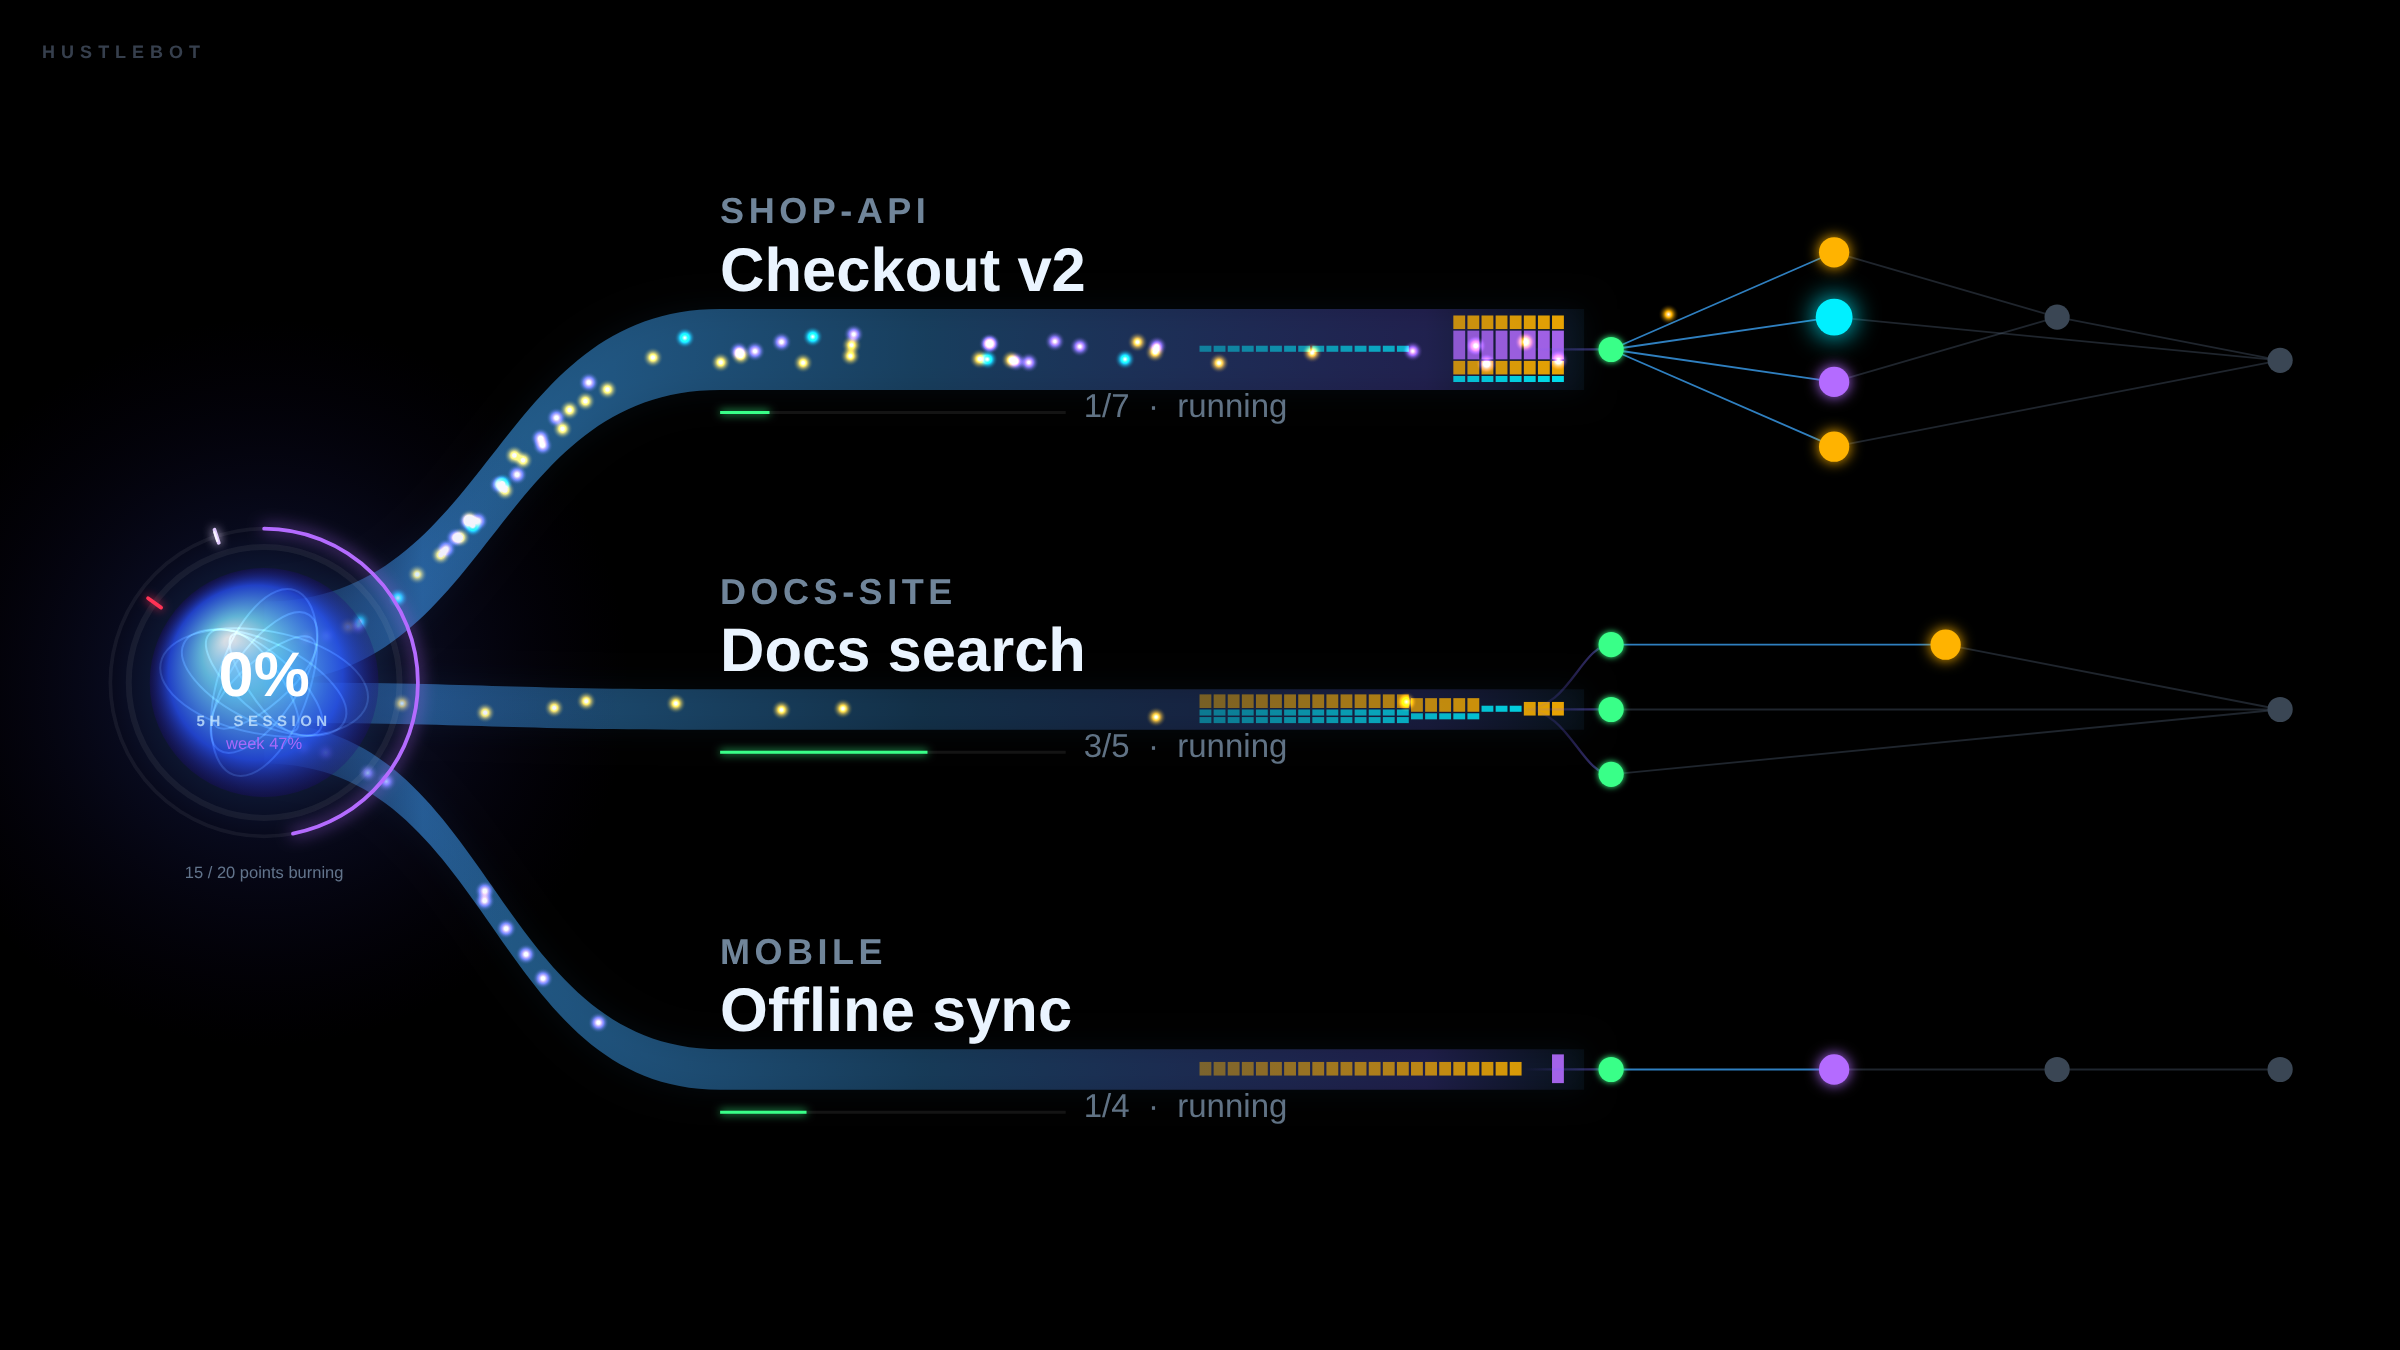
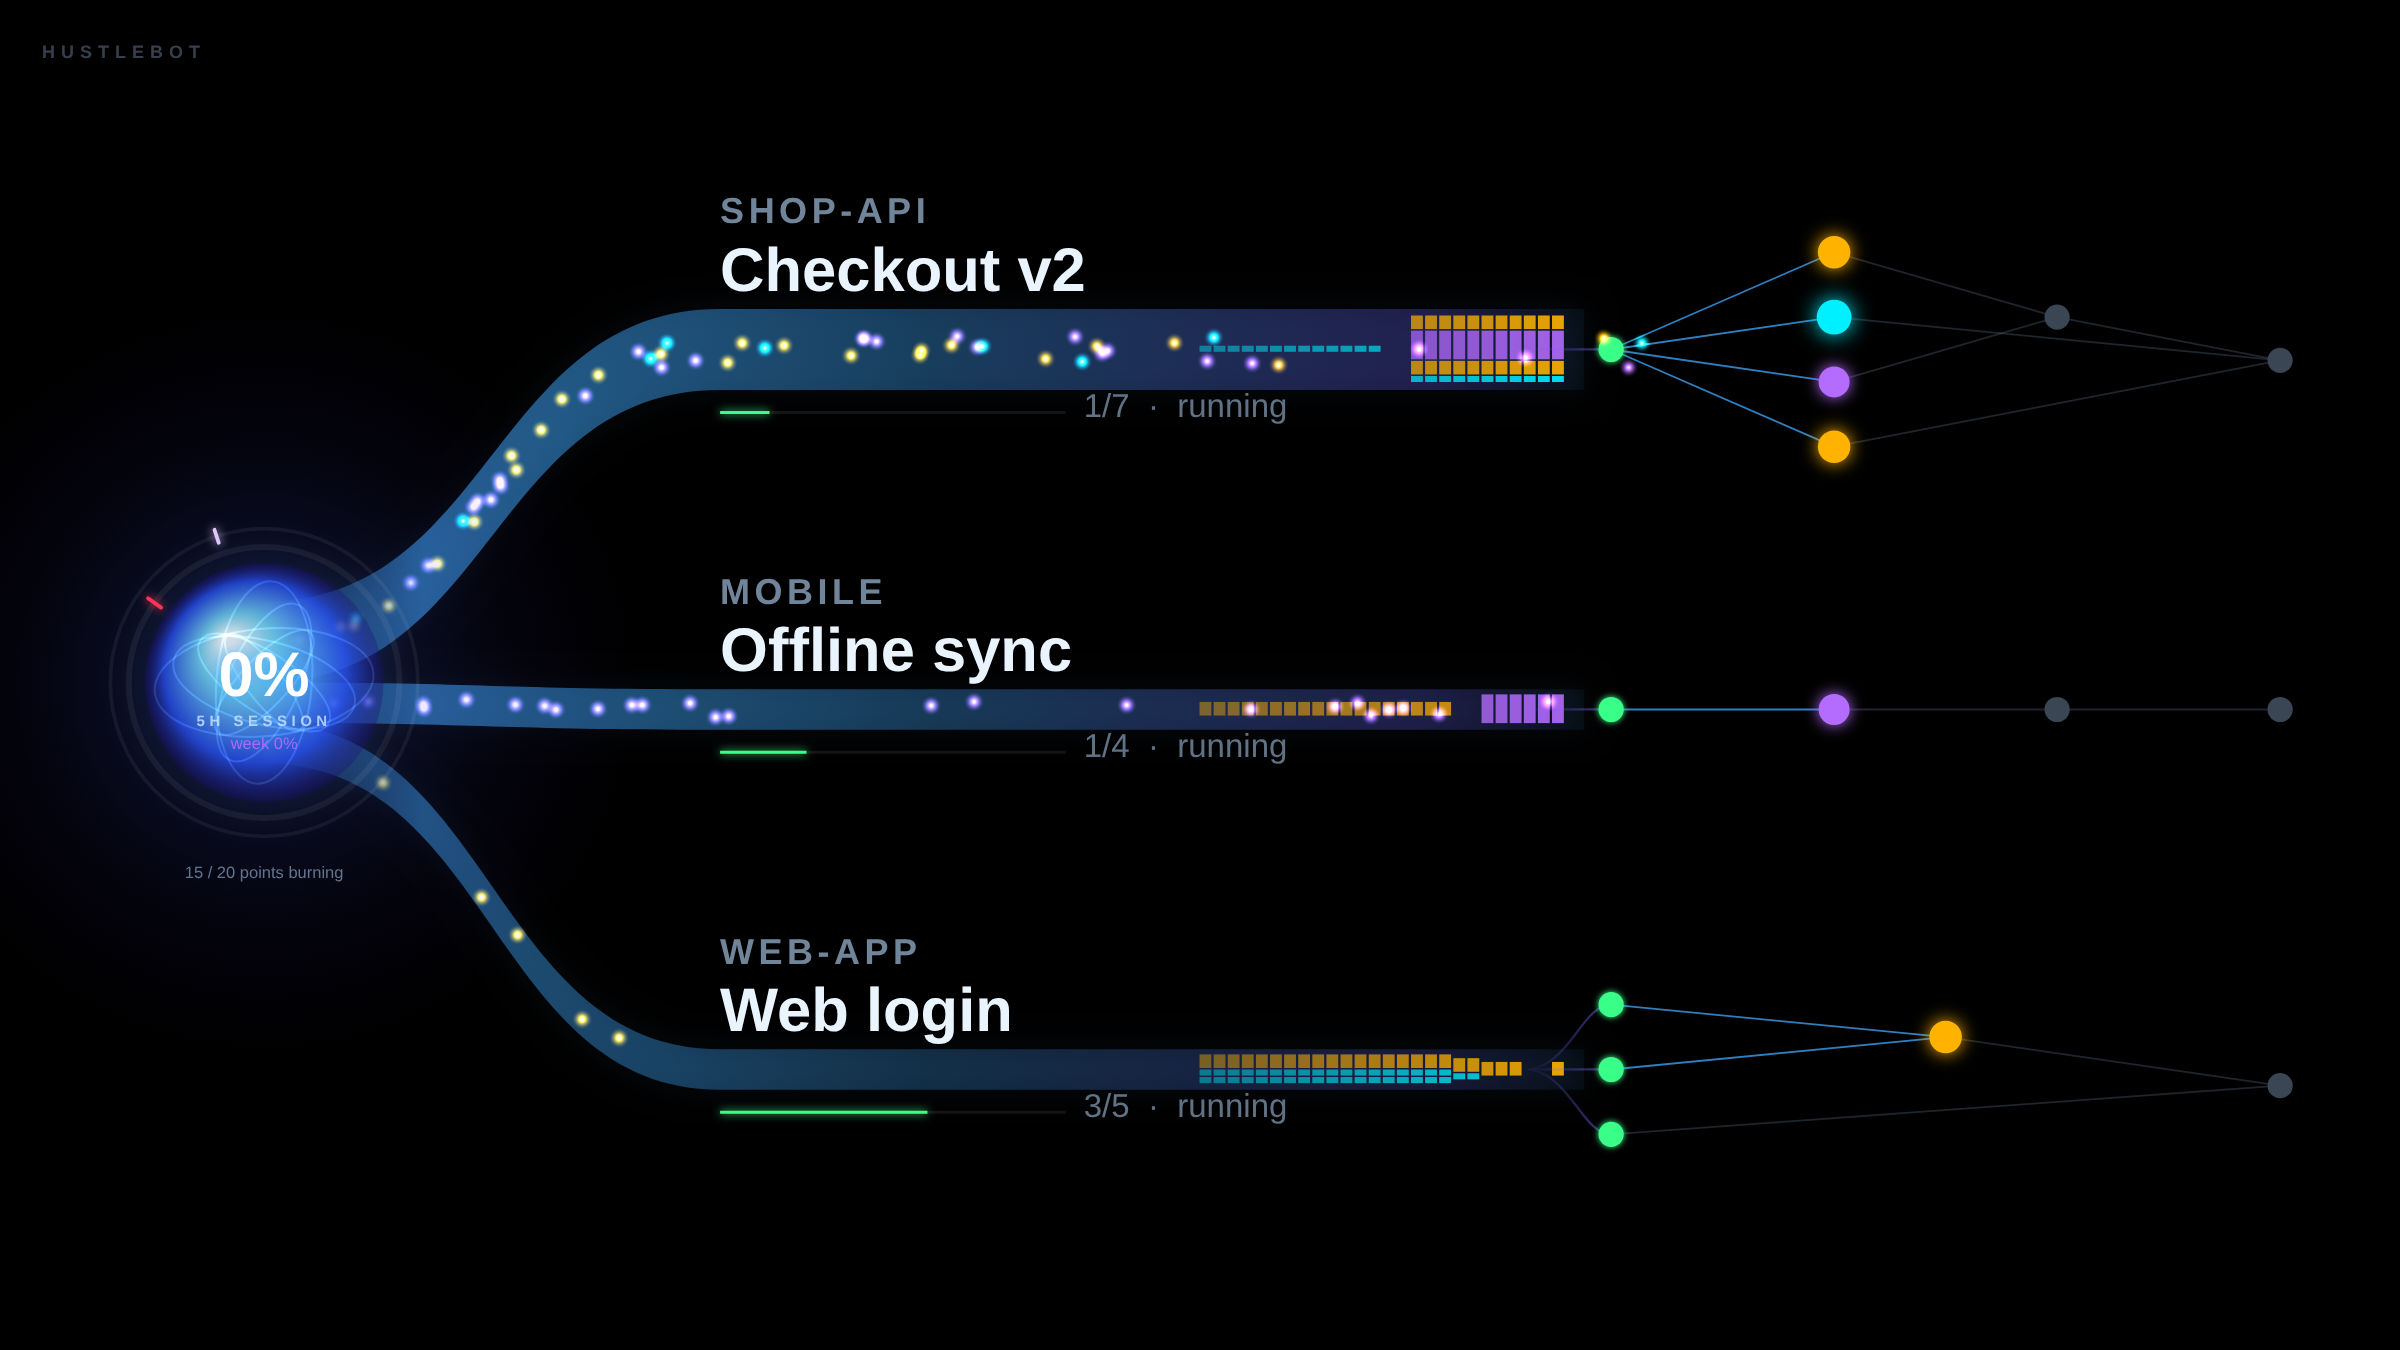
README: a frontend hustle (Web login) instead of Docs search
Docs search read like a research job; the example hustles should be development work. Cinema screenshot regenerated.

Claude-Session: https://claude.ai/code/session_01Cw7WTDZQsDNCn9YQZ2zuGm

diff --git a/master/prototypes/readme_shots.py b/master/prototypes/readme_shots.py
@@ -38,12 +38,12 @@ HUSTLES = [
         inc("client", "Checkout client", after=["cart", "payment"]),
         inc("accept", "Acceptance", "opus", ["client", "tax", "mails"], "overseer"),
     ]),
-    ("docs-site", "Docs search", 1, [
-        inc("index", "Search index"),
-        inc("guide", "Guide pages", "haiku"),
-        inc("ref", "API reference", "haiku"),
-        inc("ui", "Search box", after=["index"]),
-        inc("accept", "Acceptance", "opus", ["ui", "guide", "ref"], "overseer"),
+    ("web-app", "Web login", 1, [
+        inc("form", "Login form"),
+        inc("session", "Session cookie", "haiku"),
+        inc("errors", "Error states", "haiku"),
+        inc("e2e", "Login e2e test", after=["form", "session"]),
+        inc("accept", "Acceptance", "opus", ["e2e", "errors"], "overseer"),
     ]),
     ("mobile", "Offline sync", 1, [
         inc("store", "Local store"),

diff --git a/README.md b/README.md
@@ -29,7 +29,7 @@ Independent increments run **at the same time**, each as its own session in its 
 ### 3 · Many hustles, weighted
 Run several goals at once, across repositories. Each active hustle gets a share of the machine's **session points** by its weight; points one cannot use go to the others.
 
-<img src="assets/readme/weights.svg" alt="20 points shared 10/5/5 by weights 2/1/1; docs uses only 2, so 12/2/6 are in use." width="100%">
+<img src="assets/readme/weights.svg" alt="20 points shared 10/5/5 by weights 2/1/1; web login uses only 2, so 12/2/6 are in use." width="100%">
 
 ### 4 · hustlemaster and hustlebots
 The **hustlemaster** is a plain service, not an agent: it stores the plans, reads `/usage`, schedules and merges. **hustlebots** are headless Claude Code sessions: workers implement one increment, overseers reshape the plan. The budget stays with you.
